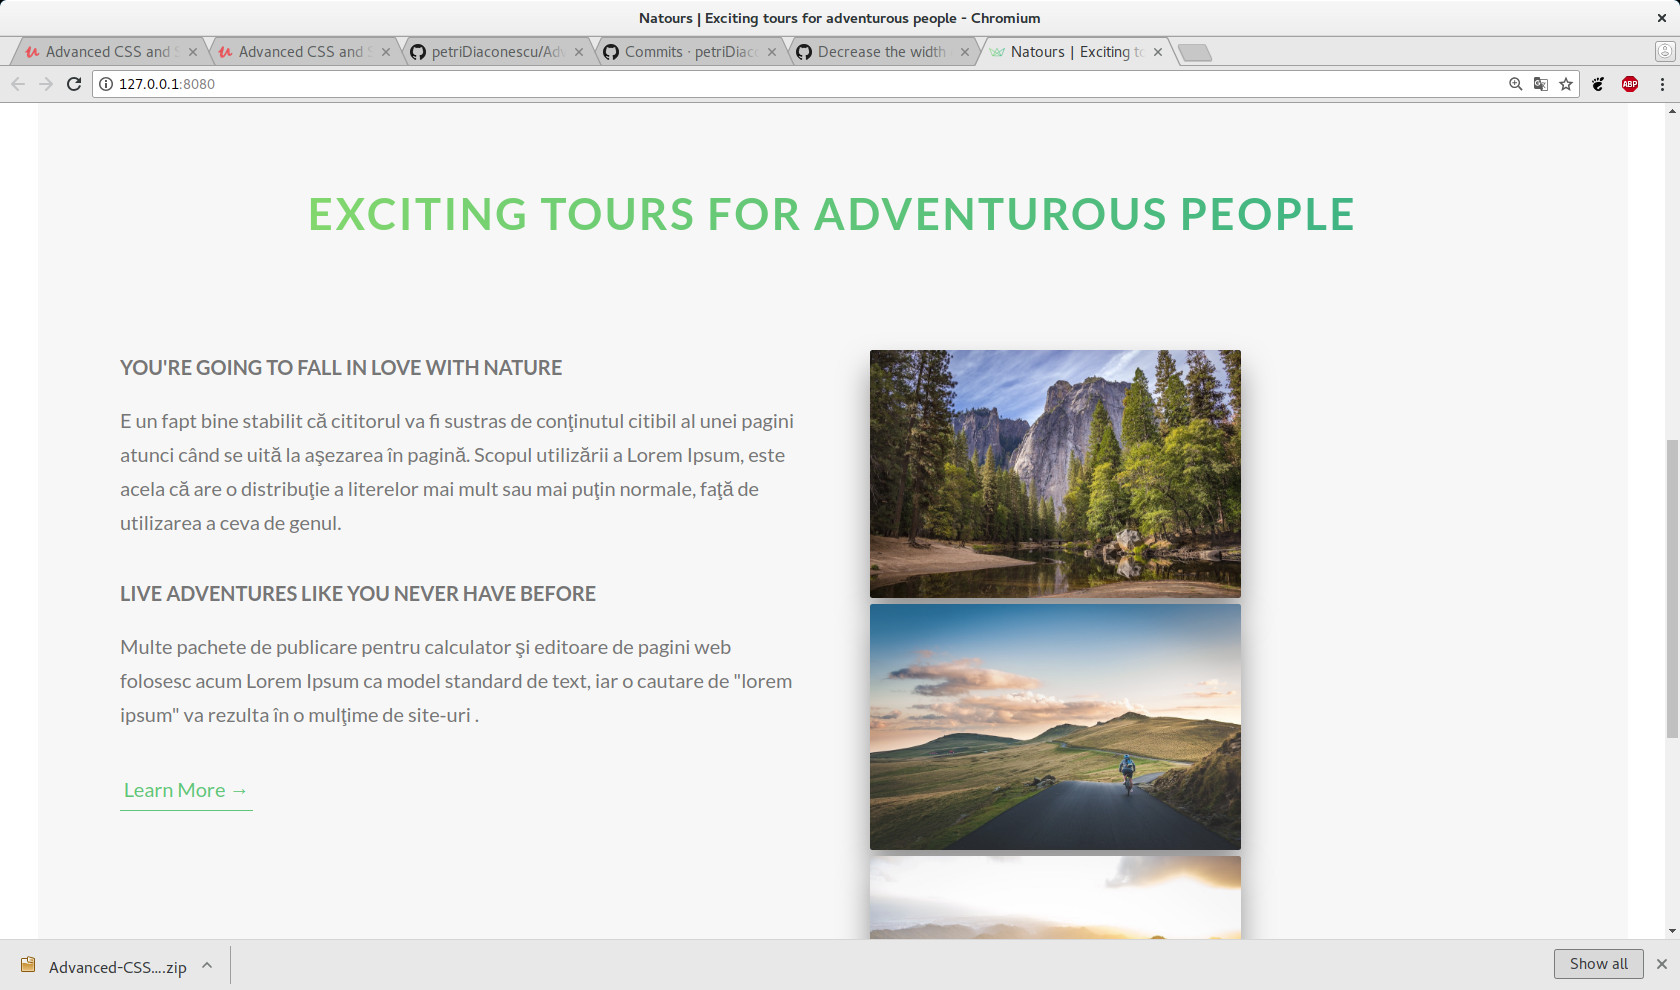
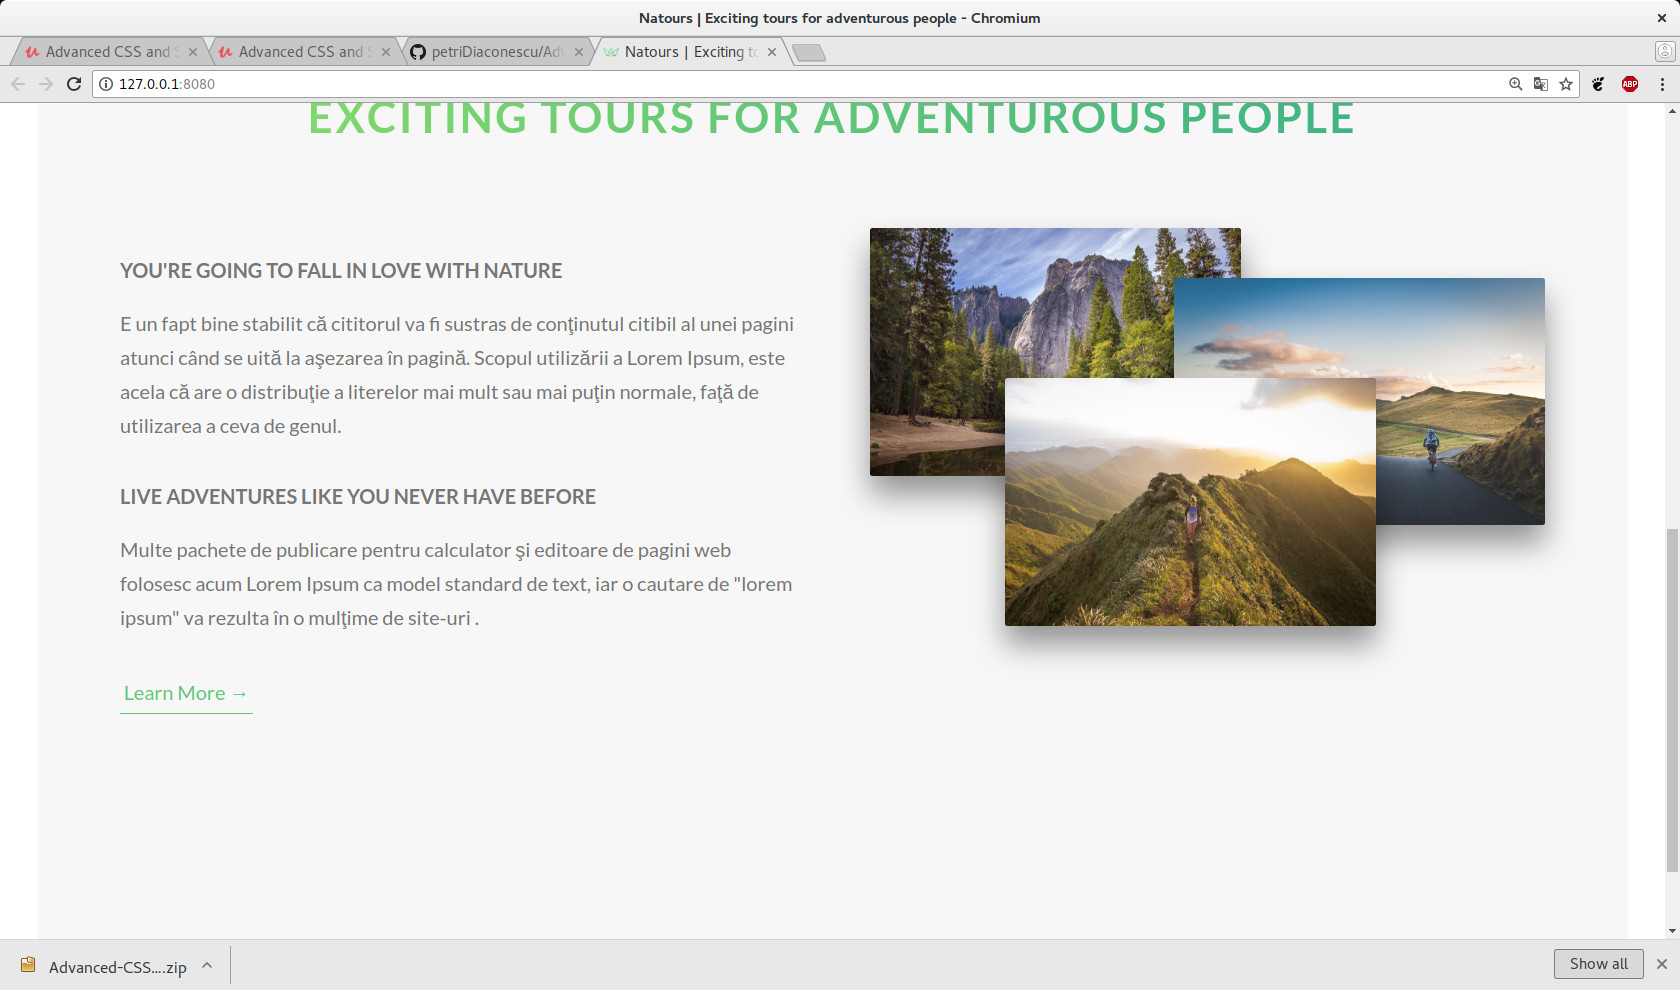
Stack the images on top of each other with position absolute

diff --git a/sass/components/_composition.scss b/sass/components/_composition.scss
@@ -1,8 +1,25 @@
 .composition {
+  position: relative;
   
   &__photo {
     width: 55%;
     box-shadow: 0 1.5rem 4rem rgba($color-black, .4);
     border-radius: 2px;
+    position: absolute;
+    
+    &--p1 {
+      left: 0;
+      top: -2rem;
+    }
+    
+    &--p2 {
+      right: 0;
+      top: 2rem;
+    }
+    
+    &--p3 {
+      left: 20%;
+      top: 10rem;
+    }   
   }
 }
